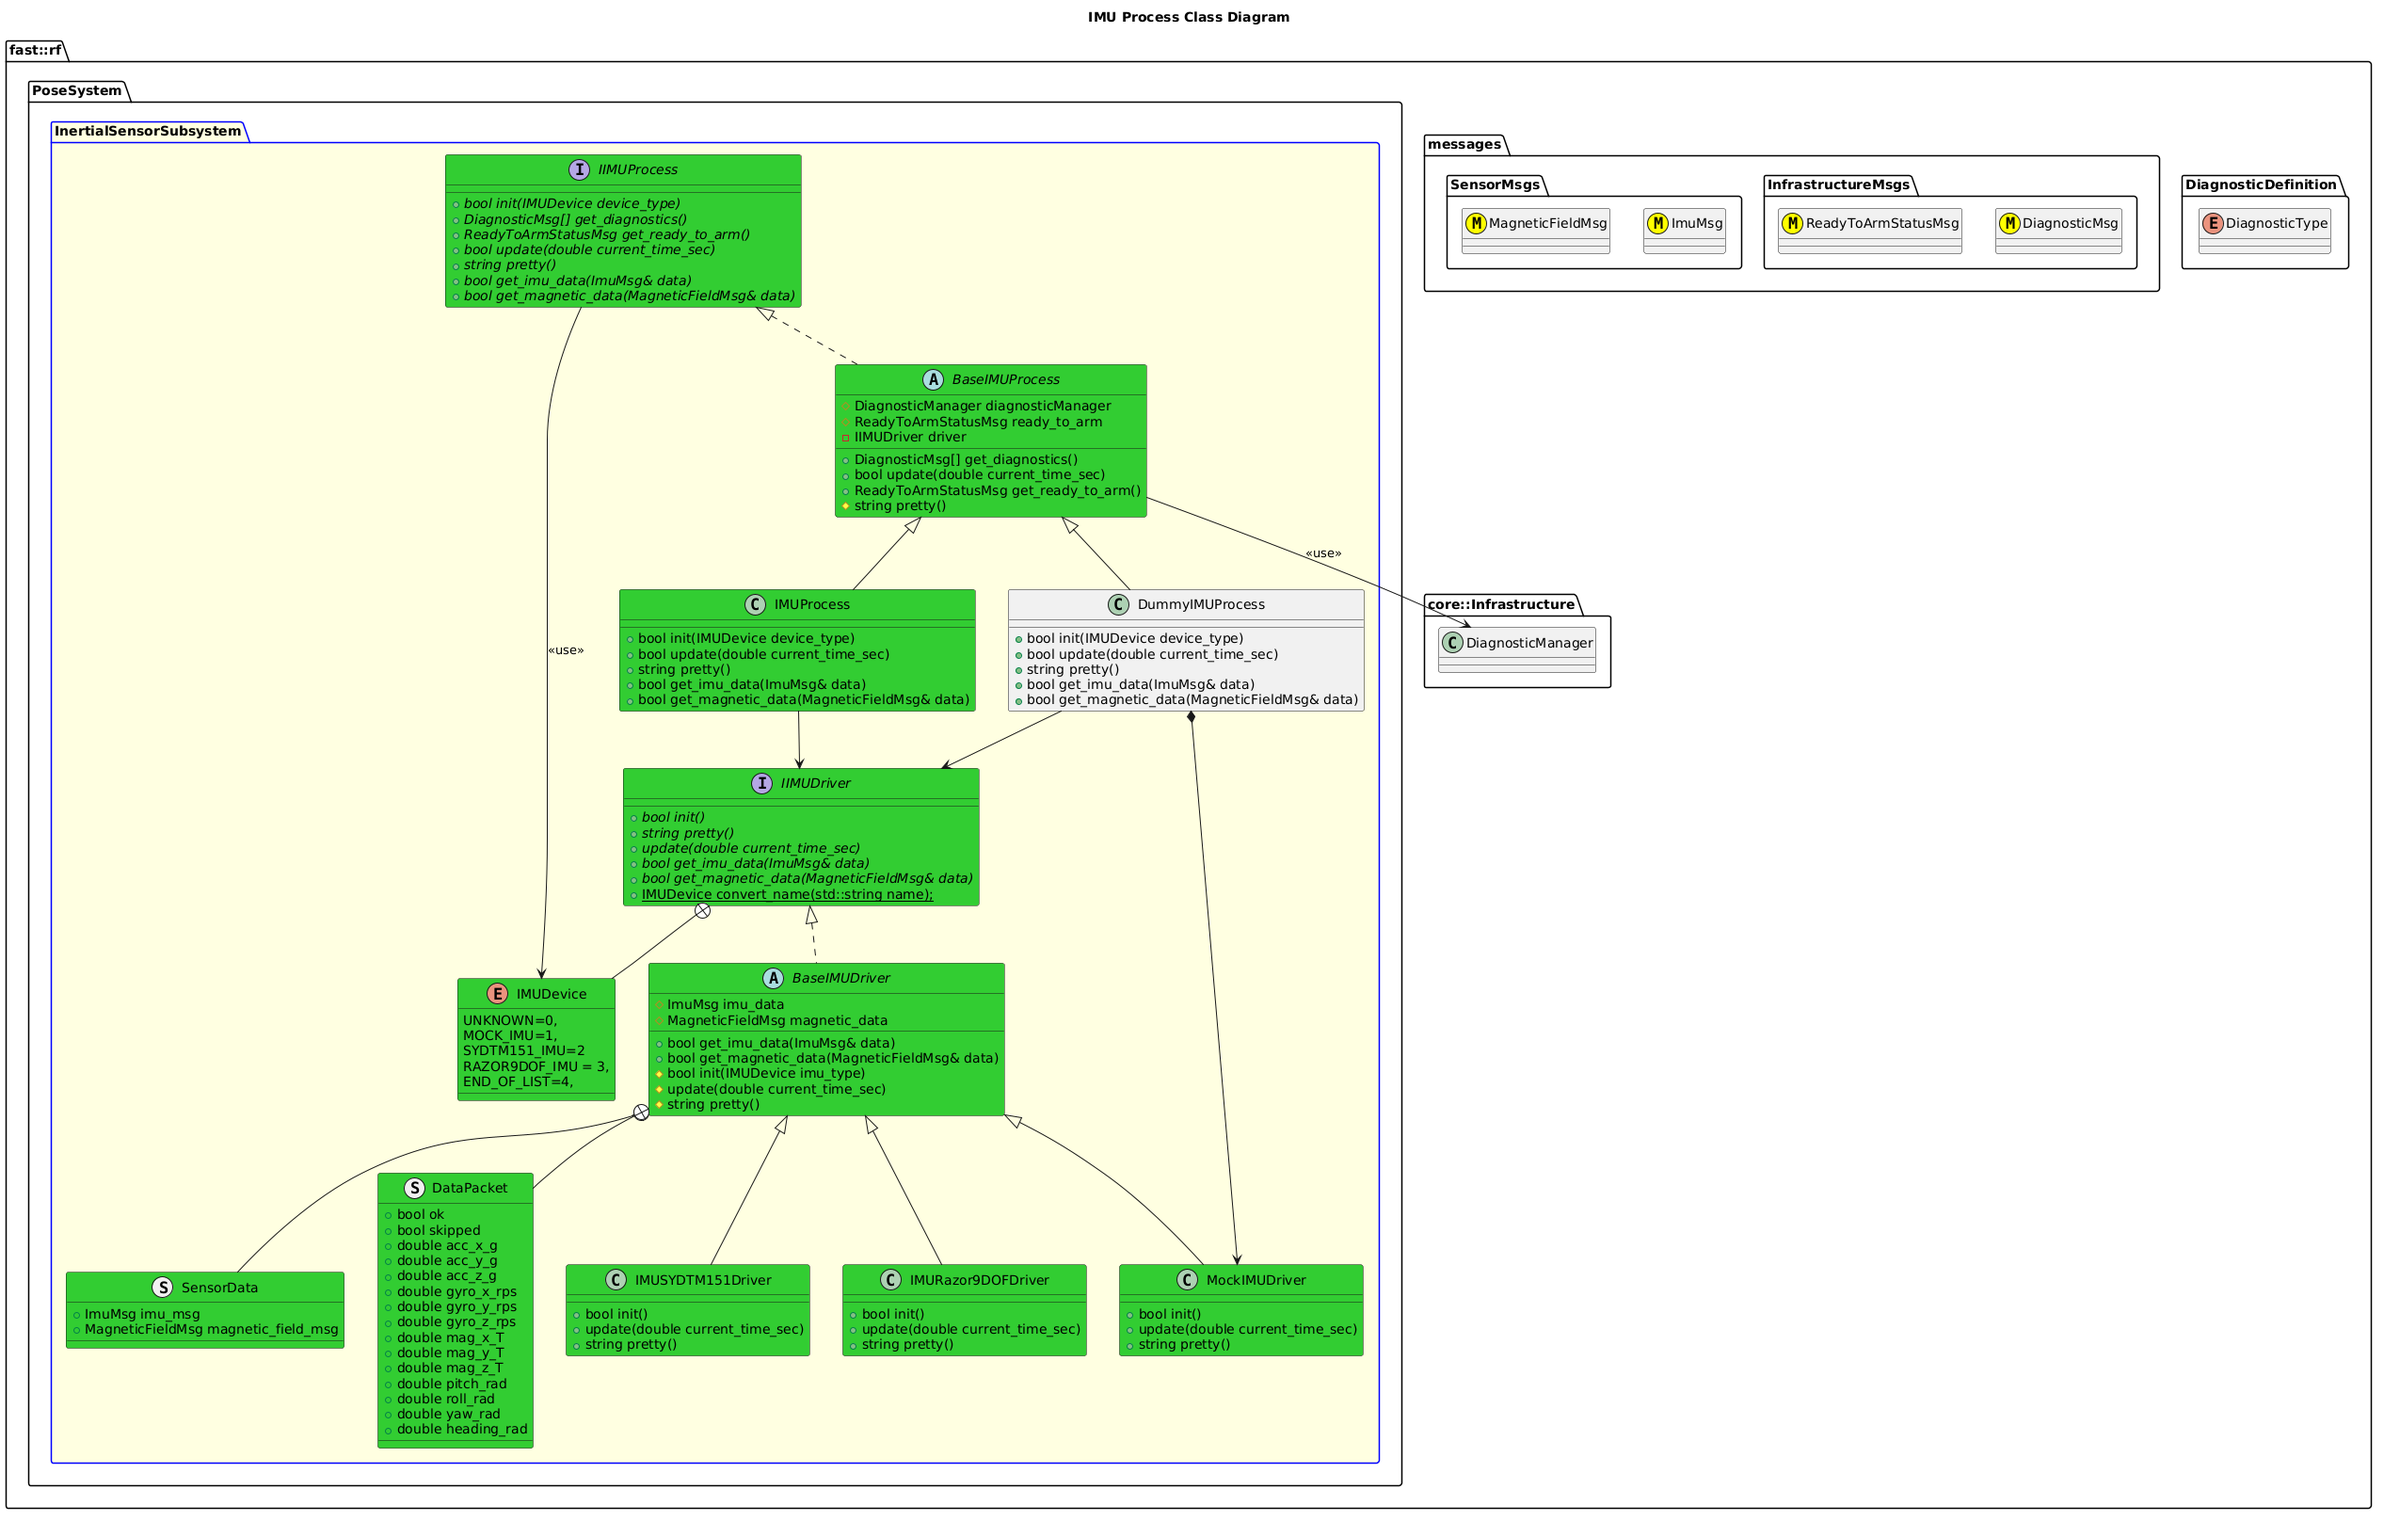
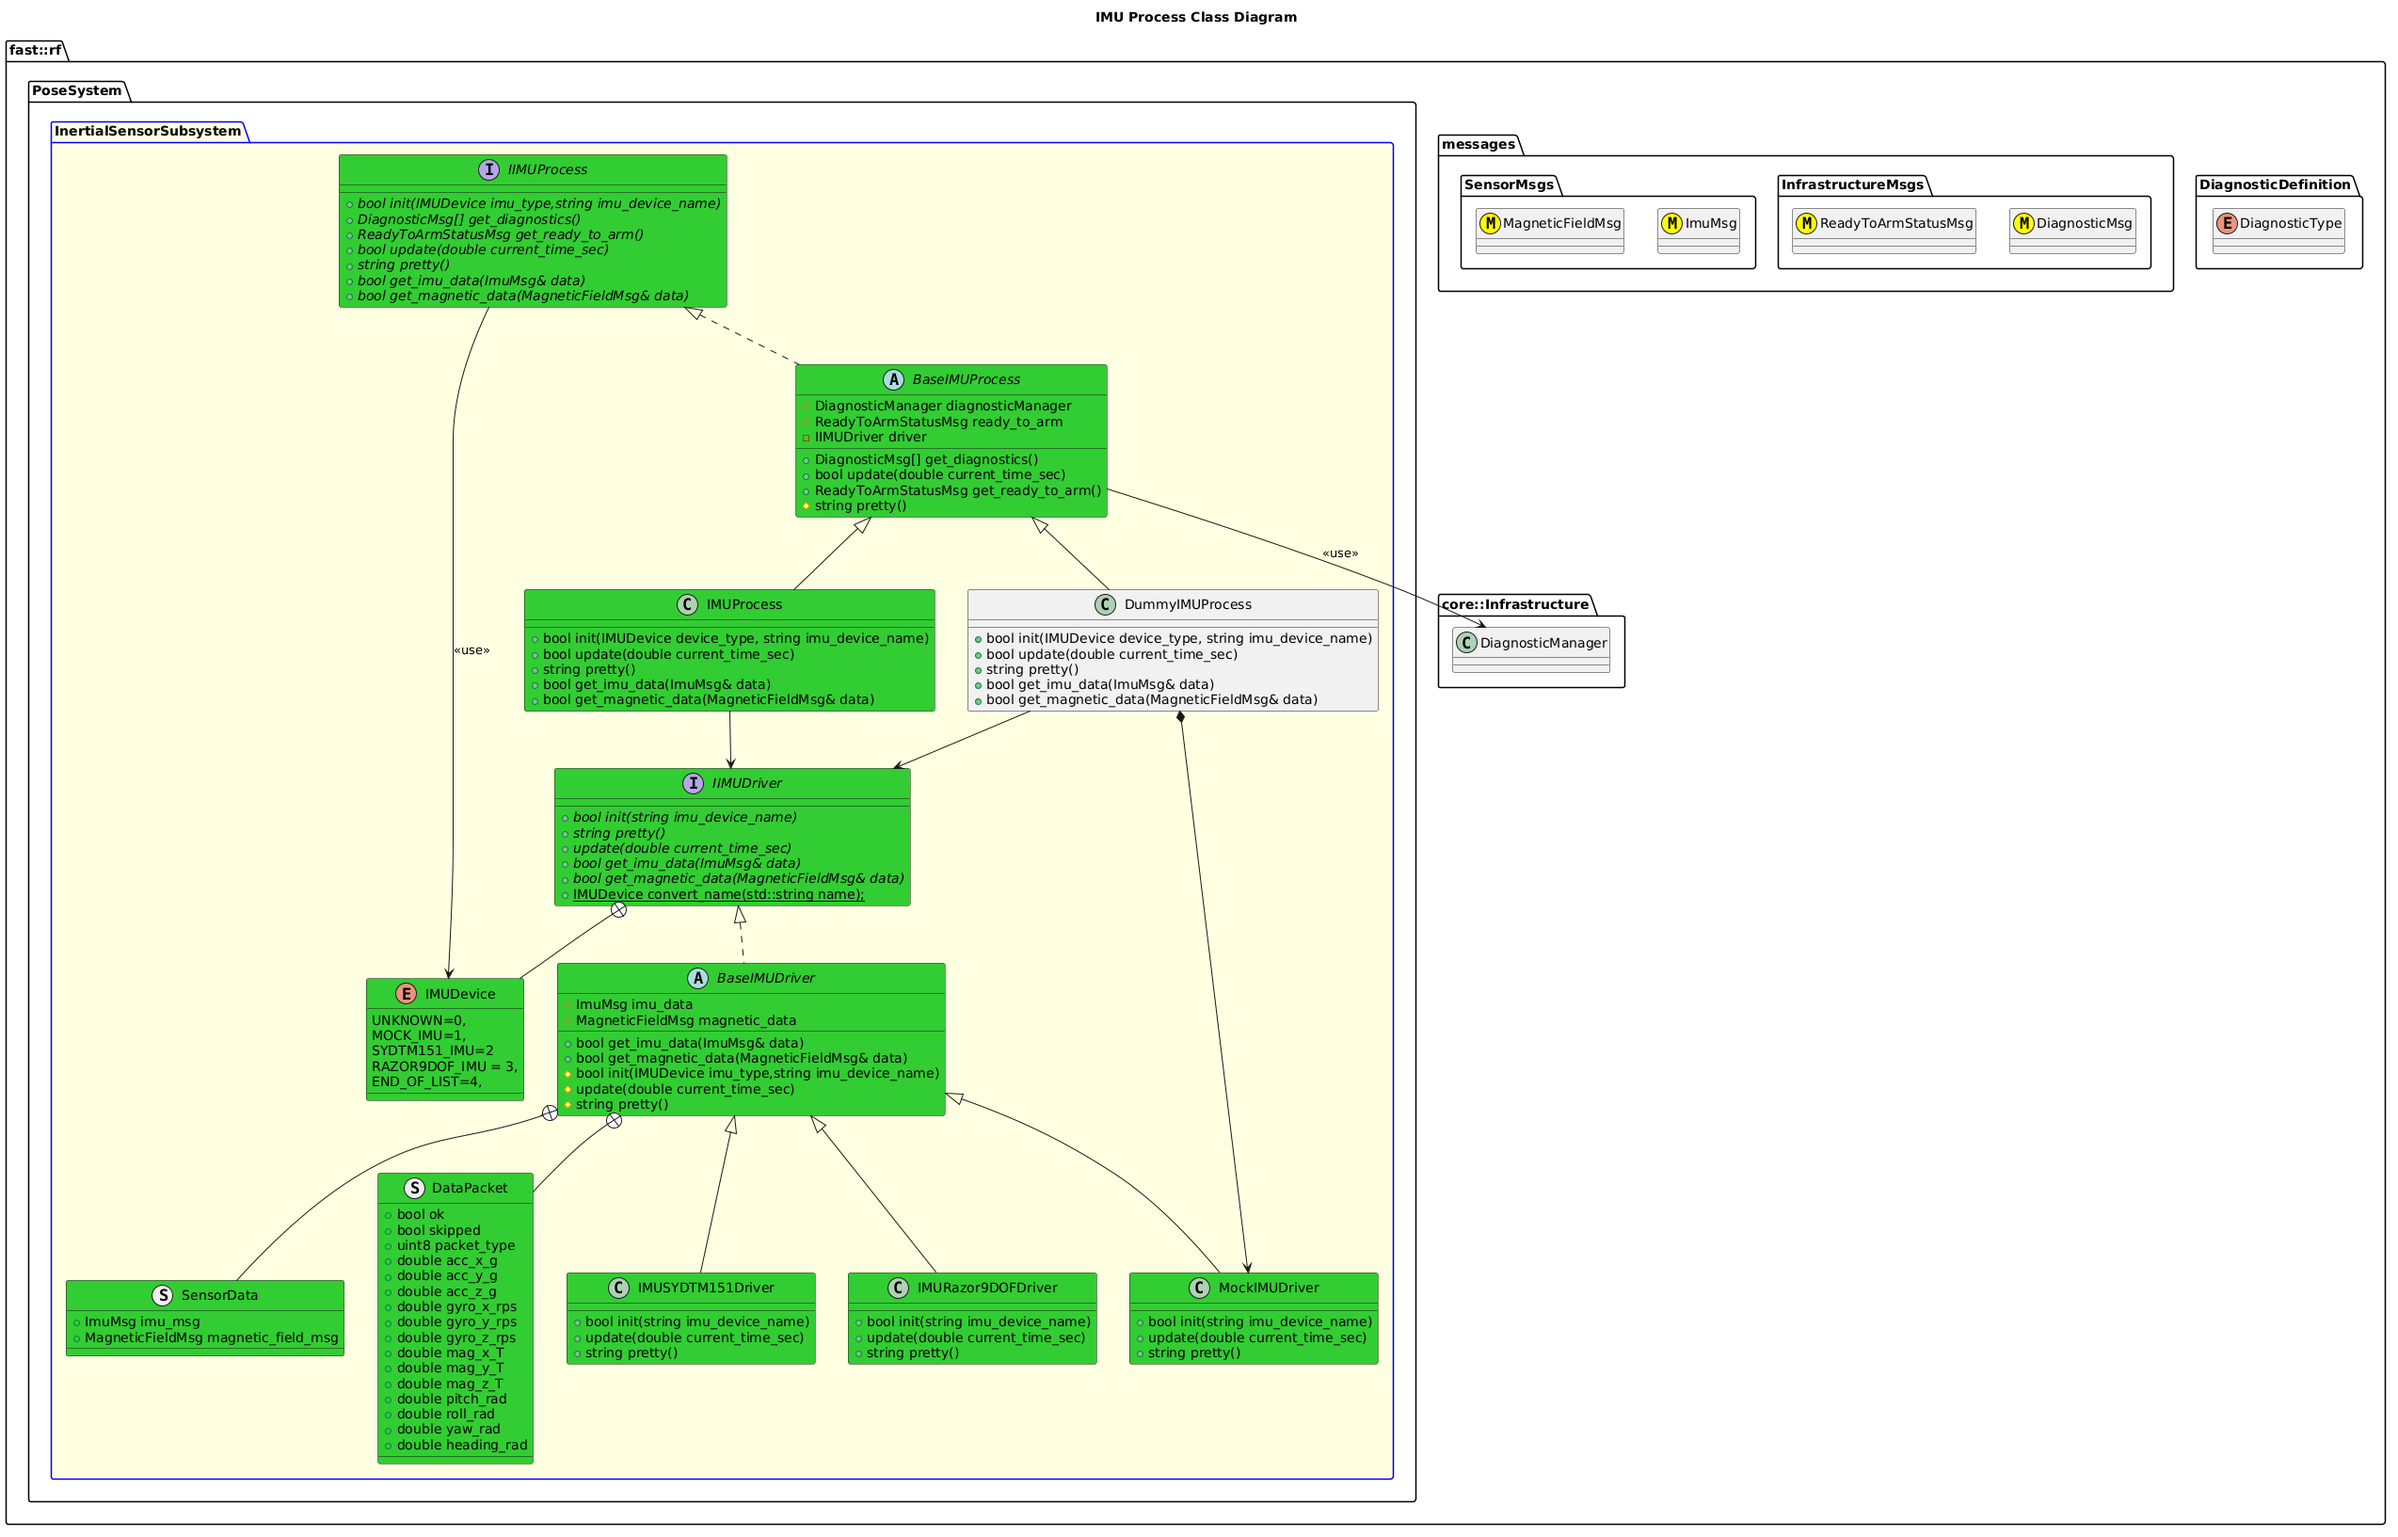
WIP

Changed region(s): [[0.0, 0.0309, 0.998, 1.0], [0.499, 0.0, 0.5302, 0.0309]]

diff --git a/Systems/Pose/Subsystems/InertialSensor/Processes/IMU/src/IMUDriver/IMUSYDTM151Driver/IMUSYDTM151Driver.cpp b/Systems/Pose/Subsystems/InertialSensor/Processes/IMU/src/IMUDriver/IMUSYDTM151Driver/IMUSYDTM151Driver.cpp
@@ -115,6 +115,7 @@ namespace fast::rf::PoseSystem::InertialSensorSubsystem {
                     Ep_Raw_GyroAccMag ep_Raw_GyroAccMag;
                     if (EP_SUCC_ == eOD.Read_Ep_Raw_GyroAccMag(&ep_Raw_GyroAccMag)) {
                         // Raw Data received
+                        packet.packet_type = (uint8_t)header.cmd;
                         packet.acc_x_g = ep_Raw_GyroAccMag.acc[0];  // Note 1: ep_Raw_GyroAccMag is defined in the
                                                                     // EasyProfile library as a global variable
                         packet.acc_y_g = ep_Raw_GyroAccMag.acc[1];  // Note 2: for the units and meaning of each value,
@@ -135,6 +136,7 @@ namespace fast::rf::PoseSystem::InertialSensorSubsystem {
                     Ep_RPY ep_RPY;
                     if (EP_SUCC_ == eOD.Read_Ep_RPY(&ep_RPY)) {
                         // Roll Pitch Yaw data received
+                        packet.packet_type = (uint8_t)header.cmd;
                         packet.roll_rad =
                             ep_RPY.roll;  // Note 1, ep_RPY is defined in the EasyProfile library as a global variable
                         packet.pitch_rad = ep_RPY.pitch;  // Note 2, for the units and meaning of each value, refer to
@@ -155,28 +157,29 @@ namespace fast::rf::PoseSystem::InertialSensorSubsystem {
         return packet;
     }
     BaseIMUDriver::SensorData IMUSYDTM151Driver::convert(BaseIMUDriver::DataPacket packet) {
-        BaseIMUDriver::SensorData sensor_data;
-        fast::rf::messages::SensorMsgs::ImuMsg imu_msg;
-        imu_msg.linear_acceleration.x = packet.acc_x_g * 9.81;
-        imu_msg.linear_acceleration.y = packet.acc_y_g * 9.81;
-        imu_msg.linear_acceleration.z = packet.acc_z_g * 9.81;
-        imu_msg.angular_velocity.x = packet.gyro_x_rps;
-        imu_msg.angular_velocity.y = packet.gyro_y_rps;
-        fast::rf::Logger::log_warn("xxx2: " + std::to_string(imu_msg.angular_velocity.y));
-        imu_msg.angular_velocity.z = packet.gyro_z_rps;
-        imu_msg.orientation.pitch = packet.pitch_rad;
-        imu_msg.orientation.roll = packet.roll_rad;
-        imu_msg.orientation.yaw = packet.yaw_rad;
+        if (packet.packet_type == (uint8_t)EP_CMD_Raw_GYRO_ACC_MAG_) {
+            sensor_data_.imu_msg.linear_acceleration.x = packet.acc_x_g * 9.81;
+            sensor_data_.imu_msg.linear_acceleration.y = packet.acc_y_g * 9.81;
+            sensor_data_.imu_msg.linear_acceleration.z = packet.acc_z_g * 9.81;
+            sensor_data_.imu_msg.angular_velocity.x = packet.gyro_x_rps;
+            sensor_data_.imu_msg.angular_velocity.y = packet.gyro_y_rps;
+            fast::rf::Logger::log_warn(
+                "xxx2: " +
+                std::to_string(sensor_data_.imu_msg.angular_velocity
+                                   .y));  // TODO: Resolve why this line is getting hit twice, giving garbage output.
+            sensor_data_.imu_msg.angular_velocity.z = packet.gyro_z_rps;
 
-        sensor_data.imu_msg = imu_msg;
+            sensor_data_.magnetic_field_msg.magnetic_field.x = packet.mag_x_T;
+            sensor_data_.magnetic_field_msg.magnetic_field.y = packet.mag_y_T;
+            sensor_data_.magnetic_field_msg.magnetic_field.z = packet.mag_z_T;
 
-        fast::rf::messages::SensorMsgs::MagneticFieldMsg magnetic_msg;
-        magnetic_msg.magnetic_field.x = packet.mag_x_T;
-        magnetic_msg.magnetic_field.y = packet.mag_y_T;
-        magnetic_msg.magnetic_field.z = packet.mag_z_T;
+        } else if (packet.packet_type == (uint8_t)EP_CMD_RPY_) {
+            sensor_data_.imu_msg.orientation.pitch = packet.pitch_rad;
+            sensor_data_.imu_msg.orientation.roll = packet.roll_rad;
+            sensor_data_.imu_msg.orientation.yaw = packet.yaw_rad;
+        }
 
-        sensor_data.magnetic_field_msg = magnetic_msg;
-        return sensor_data;
+        return sensor_data_;
     }
 
     std::string IMUSYDTM151Driver::pretty() {

diff --git a/Systems/Pose/Subsystems/InertialSensor/Processes/IMU/include/IMUDriver/BaseIMUDriver.hpp b/Systems/Pose/Subsystems/InertialSensor/Processes/IMU/include/IMUDriver/BaseIMUDriver.hpp
@@ -31,22 +31,23 @@ namespace fast::rf::PoseSystem::InertialSensorSubsystem {
          *
          */
         struct DataPacket {
-            bool ok;             //!< If the packet was parsed ok
-            bool skipped;        //!< If the packet was skipped
-            double acc_x_g;      //!< Acceleration in G's
-            double acc_y_g;      //!< Acceleration in G's
-            double acc_z_g;      //!< Acceleration in G's
-            double gyro_x_rps;   //!< Rotation Rate in rad/s
-            double gyro_y_rps;   //!< Rotation Rate in rad/s
-            double gyro_z_rps;   //!< Rotation Rate in rad/s
-            double mag_x_T;      //!< Magnetometer reading in Tesla
-            double mag_y_T;      //!< Magnetometer reading in Tesla
-            double mag_z_T;      //!< Magnetometer reading in Tesla
-            double pitch_rad;    //!< Orientation in Radians
-            double roll_rad;     //!< Orientation in Radians
-            double yaw_rad;      //!< Orientation in Radians
-            double heading_rad;  //!< Heading in Radians
-            DataPacket() : ok(false), skipped(false) {}
+            bool ok;              //!< If the packet was parsed ok
+            bool skipped;         //!< If the packet was skipped
+            uint8_t packet_type;  //!< Generic Packet Type
+            double acc_x_g;       //!< Acceleration in G's
+            double acc_y_g;       //!< Acceleration in G's
+            double acc_z_g;       //!< Acceleration in G's
+            double gyro_x_rps;    //!< Rotation Rate in rad/s
+            double gyro_y_rps;    //!< Rotation Rate in rad/s
+            double gyro_z_rps;    //!< Rotation Rate in rad/s
+            double mag_x_T;       //!< Magnetometer reading in Tesla
+            double mag_y_T;       //!< Magnetometer reading in Tesla
+            double mag_z_T;       //!< Magnetometer reading in Tesla
+            double pitch_rad;     //!< Orientation in Radians
+            double roll_rad;      //!< Orientation in Radians
+            double yaw_rad;       //!< Orientation in Radians
+            double heading_rad;   //!< Heading in Radians
+            DataPacket() : ok(false), skipped(false), packet_type(0) {}
         };
         /**
          * @brief Get the imu data object

diff --git a/Systems/Pose/Subsystems/InertialSensor/Processes/IMU/include/IMUDriver/IMUSYDTM151Driver/IMUSYDTM151Driver.hpp b/Systems/Pose/Subsystems/InertialSensor/Processes/IMU/include/IMUDriver/IMUSYDTM151Driver/IMUSYDTM151Driver.hpp
@@ -67,10 +67,11 @@ namespace fast::rf::PoseSystem::InertialSensorSubsystem {
          * @param packet
          * @return fast::rf::messages::SensorMsgs::ImuMsg
          */
-        static BaseIMUDriver::SensorData convert(BaseIMUDriver::DataPacket packet);
+        BaseIMUDriver::SensorData convert(BaseIMUDriver::DataPacket packet);
 
        private:
         int serial_fd{-1};  //!< Serial Port Device
+        BaseIMUDriver::SensorData sensor_data_;
         char readBuffer[64];
         uint64_t packet_rx_ok_counter{0};
         uint64_t packet_rx_dropped_counter{0};
